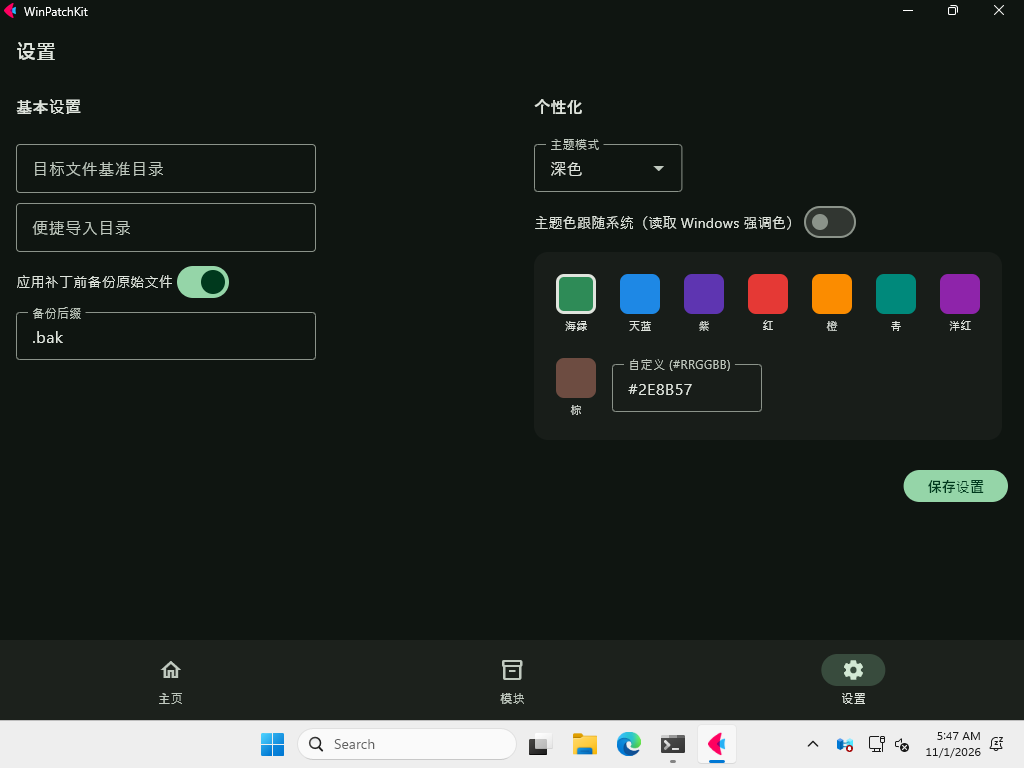
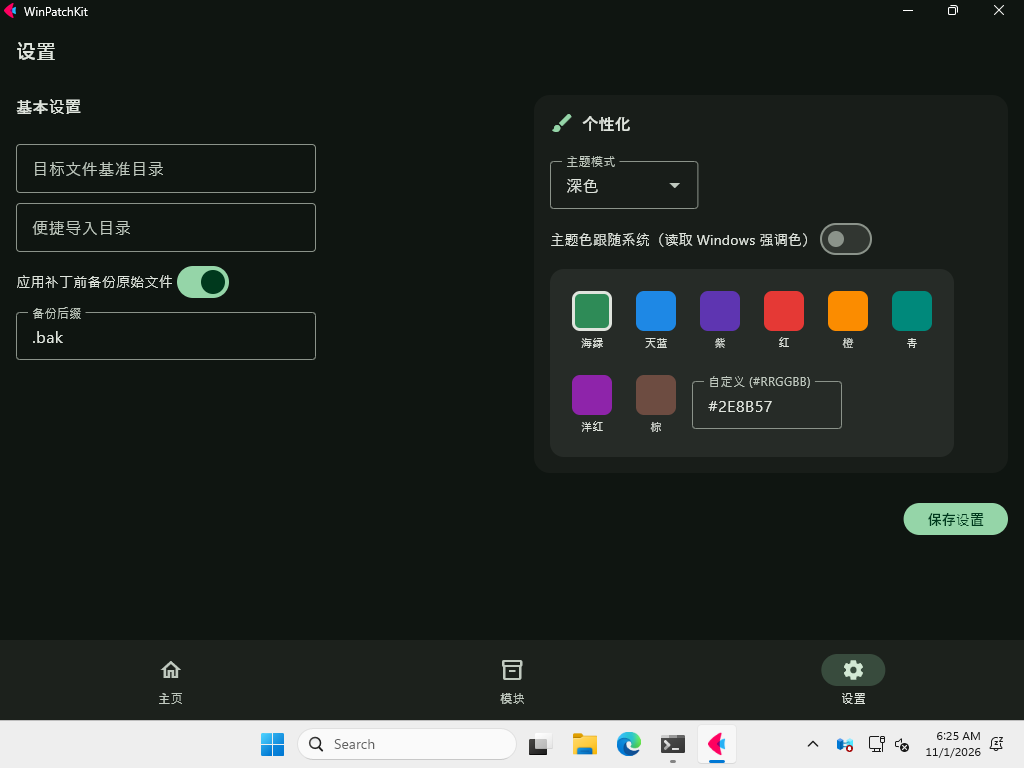
ui: 设置页左列基本设置也套抬升表面 + 标题加SETTINGS图标（双卡对称）

diff --git a/gui/pages/settings.py b/gui/pages/settings.py
@@ -1,6 +1,8 @@
-"""设置页：双列布局（左=基本设置 / 右=个性化），顶部标题+底部保存按钮跨整行。
+"""设置页：双列布局（左=基本设置 / 右=个性化），底部保存按钮跨整行。
 
 所有设置持久化到数据目录/settings.json（走 app.Settings），修改即保存。
+两列各套一层抬升表面（SURFACE_CONTAINER_LOW，MD3E 风格：填充底色取代描边做分组），
+个性化列内部色块区再高一档（SURFACE_CONTAINER_HIGH），形成两级表面层次。
 个性化区全部使用 Flet 原生控件（Dropdown / Switch / TextField / 可点击色块），
 保存后立即应用（重建页面主题 + 重刷 DWM 标题栏）。
 """
@@ -35,6 +37,17 @@ def _normalize_hex(v: str):
     return "#" + h.upper()
 
 
+def _section_card(content: ft.Control) -> ft.Container:
+    """把一列内容包成抬升表面卡片（外容器统一 SURFACE_CONTAINER_LOW）。"""
+    return ft.Container(
+        content=content,
+        padding=ft.Padding.all(16),
+        border_radius=16,
+        bgcolor=ft.Colors.SURFACE_CONTAINER_LOW,
+        expand=True,
+    )
+
+
 class SettingsPage:
     def __init__(self, page: ft.Page, on_changed):
         self.page = page
@@ -59,9 +72,13 @@ class SettingsPage:
                                        value=bool(st.get("backup", True)))
         self.backup_ext = text_field("backup_ext", "备份后缀", ".bak")
 
-        left_col = ft.Column(
+        left_col = _section_card(ft.Column(
             [
-                ft.Text("基本设置", size=16, weight=ft.FontWeight.BOLD),
+                ft.Row(
+                    [ft.Icon(ft.Icons.SETTINGS, color=ft.Colors.PRIMARY),
+                     ft.Text("基本设置", size=16, weight=ft.FontWeight.BOLD)],
+                    spacing=8,
+                    vertical_alignment=ft.CrossAxisAlignment.CENTER),
                 ft.Container(height=6),
                 text_field("target_base_dir", "目标文件基准目录",
                            "模块 target 相对路径的解析基准（如 OsEasy 安装目录）"),
@@ -71,8 +88,7 @@ class SettingsPage:
                 self.backup_ext,
             ],
             spacing=10,
-            expand=True,
-        )
+        ))
 
         # ---- 右列：个性化 ----
         self.mode_dropdown = ft.Dropdown(
@@ -117,6 +133,7 @@ class SettingsPage:
         chips.append(self.custom_seed)
 
         # 开关打开(跟随系统)时折叠隐藏自定义区；关闭时展示
+        # 内部色块区比外容器高一档 SURFACE_CONTAINER_HIGH，形成两级表面层次
         self.seed_grid = ft.Container(
             content=ft.Row(chips, wrap=True, spacing=8, run_spacing=8,
                            vertical_alignment=ft.CrossAxisAlignment.CENTER),
@@ -126,27 +143,20 @@ class SettingsPage:
             visible=not self.follow_switch.value,
         )
 
-        # 个性化区整体包一层抬升表面（MD3E 风格：填充底色取代描边做分组）。
-        # 内部色块区再高一档 SURFACE_CONTAINER_HIGH，形成两级表面层次。
-        right_col = ft.Container(
-            content=ft.Column(
-                [
-                    ft.Row(
-                        [ft.Icon(ft.Icons.BRUSH, color=ft.Colors.PRIMARY),
-                         ft.Text("个性化", size=16, weight=ft.FontWeight.BOLD)],
-                        spacing=8,
-                        vertical_alignment=ft.CrossAxisAlignment.CENTER),
-                    ft.Container(height=6),
-                    self.mode_dropdown,
-                    self.follow_switch,
-                    self.seed_grid,
-                ],
-                spacing=10),
-            padding=ft.Padding.all(16),
-            border_radius=16,
-            bgcolor=ft.Colors.SURFACE_CONTAINER_LOW,
-            expand=True,
-        )
+        right_col = _section_card(ft.Column(
+            [
+                ft.Row(
+                    [ft.Icon(ft.Icons.BRUSH, color=ft.Colors.PRIMARY),
+                     ft.Text("个性化", size=16, weight=ft.FontWeight.BOLD)],
+                    spacing=8,
+                    vertical_alignment=ft.CrossAxisAlignment.CENTER),
+                ft.Container(height=6),
+                self.mode_dropdown,
+                self.follow_switch,
+                self.seed_grid,
+            ],
+            spacing=10,
+        ))
 
         # 文本框 / 备份开关：提交即保存
         self.backup_switch.on_change = lambda e: self._save()
@@ -155,7 +165,7 @@ class SettingsPage:
 
         save_btn = ft.FilledButton("保存设置", on_click=lambda e: self._save())
 
-        # ---- 组装：顶部标题 + 双列主体（各 expand 平分宽度） + 底部保存按钮 ----
+        # ---- 组装：双列主体（各套抬升表面，平分宽度） + 底部保存按钮 ----
         body = ft.Row(
             [left_col, ft.Container(width=24), right_col],
             vertical_alignment=ft.CrossAxisAlignment.START,
